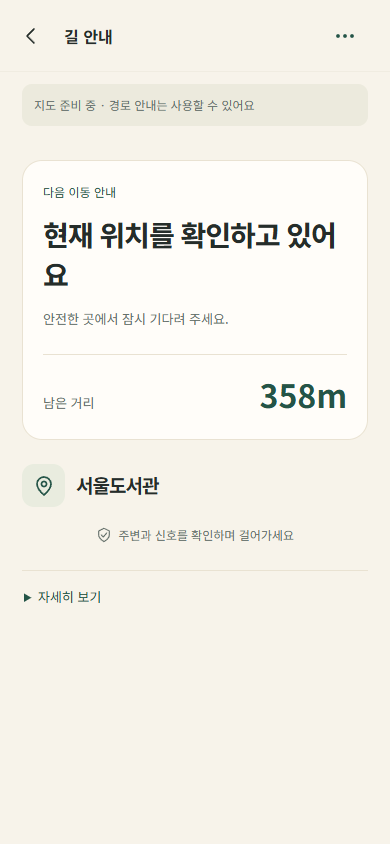
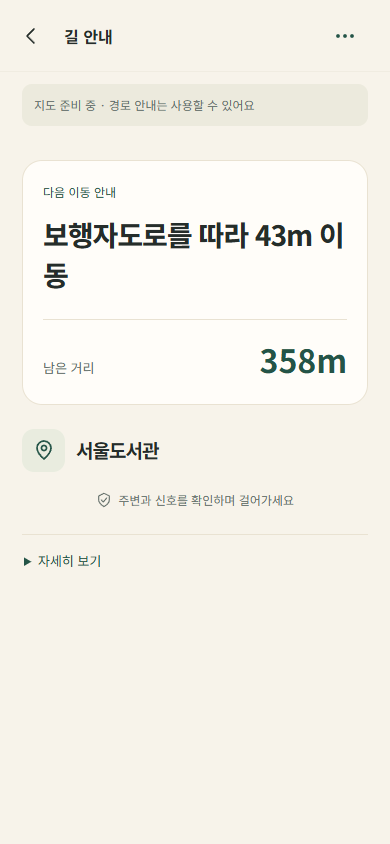
docs: capture settled live walking instruction

diff --git a/docs/validation-2026-11-11-journey-layout.md b/docs/validation-2026-11-11-journey-layout.md
@@ -18,3 +18,5 @@
 - 실제 휴대폰 GPS/실외 정확도가 아닌 실제 REST + GPS 주입 UI 검증이다. 지도 SDK 키는 보류 상태 유지.
 - docs/portfolio/assets/2026-11-11-route-simple-390.png와 2026-11-11-guidance-simple-390.png 저장·육안 확인. 사용자 실좌표나 키는 포함하지 않았다.
 - 포트폴리오 문서와 검증 문서의 로컬 링크 204개 점검 통과(최종 이미지 링크 추가 전). AI 지원으로 UI·자동화·기록을 정리했다.
+
+- 안내 중 캡처는 GPS 콜백 반영 후 렌더링 완료를 기다려 보완했다. 실제 공급자 문구 보행자도로를 따라 43m 이동 표시와 남은 거리 358m 확인. 최초 캡처는 상태 반영 전 대기 화면이어서 현재 캡처로 대체했다. 제품 코드 변경은 없다.

diff --git a/docs/portfolio/work-log.md b/docs/portfolio/work-log.md
@@ -170,3 +170,5 @@
 - 제한: 실제 지도 키·카메라 AR 연동·실외 정확도는 미해결/미확인. 사용자 만족도 향상 수치는 측정하지 않았다. AI 지원으로 UI 수정·자동화·문서화를 진행했다.
 
 - 배포 결과: 87d8231 / dpl_88jUr1rdszCVzcAbnoYeDKM9oYrS READY. 실제 REST 경로 200·358m, GPS 공공 좌표 주입으로 시작·일시중지·계속·종료 확인, 실행 오류 0건. 캡처는 evidence.md 참조.
+
+- 근거 보완: 비동기 GPS 반영 완료 후 공급자 현재 단계 문구를 확인하고 안내 캡처를 갱신했다. 최초 대기 화면과 구분하며 제품/배포 변경은 없다.
